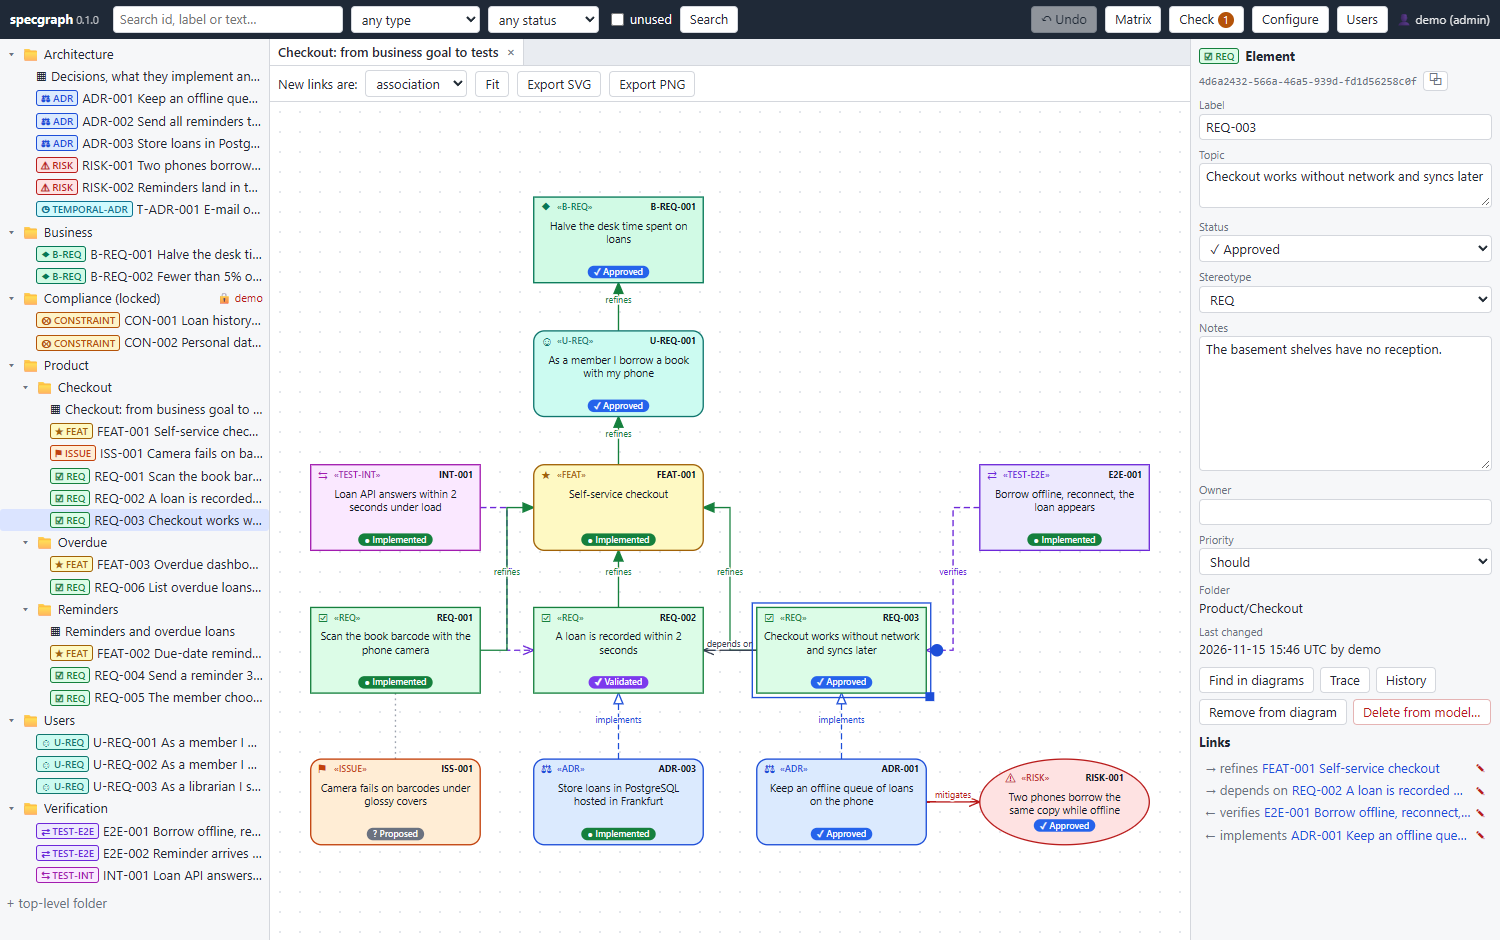
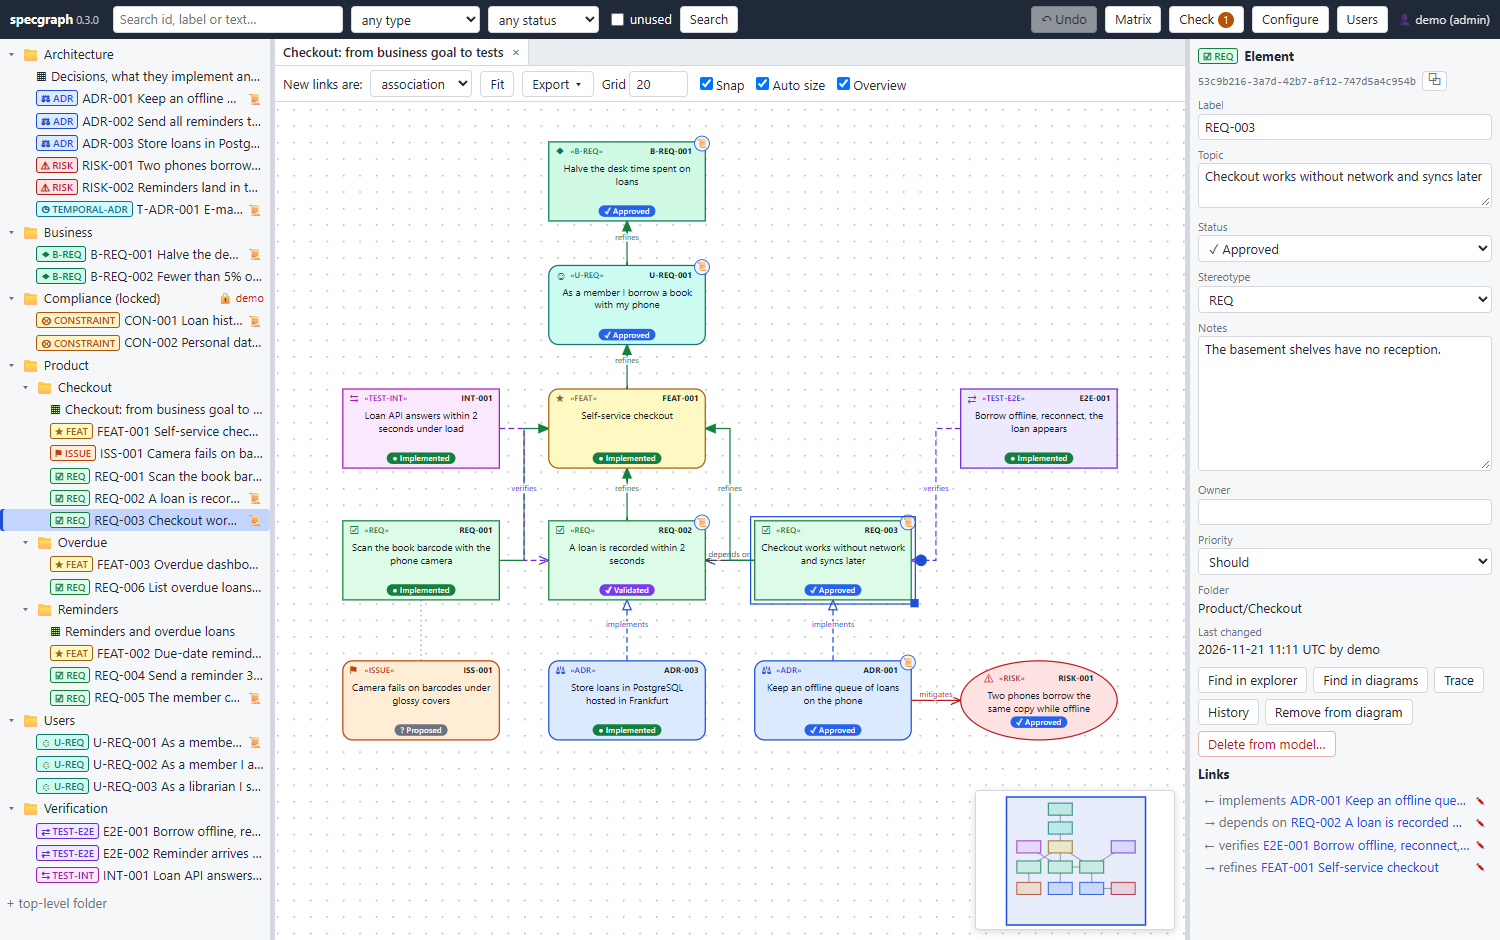
Updating with new features and functionalities. Intermediate build.

Changed region(s): [[0.1533, 0.0309, 1.0, 1.0], [0.552, 0.0617, 0.5827, 0.0926]]

diff --git a/CHANGELOG.md b/CHANGELOG.md
@@ -3,7 +3,7 @@
 Changes of the tool that a user or an agent can notice, newest first. The version is `VERSION` in
 `specgraph/__init__.py` (`python sg.py --version`). Design reasons are in `docs/ADRS.md`.
 
-## 0.3.0 — not released yet
+## 0.3.0 — 2026-11-21
 
 Design: ADR-025, ADR-026, ADR-027 (approved by the owner 2026-11-21); ADR-028, ADR-029, ADR-030.
 
@@ -63,6 +63,23 @@ Design: ADR-025, ADR-026, ADR-027 (approved by the owner 2026-11-21); ADR-028, A
 - PNG export of a very large diagram failed (the image was beyond the browser's limits). It is now scaled down.
 - Double-clicking a diagram in the explorer opens it again. The first click re-drew the tree, so the
   browser never reported the double-click.
+
+### Compatibility
+
+- The format version stays 2; nothing in the file changed shape. Version 0.2 reads a file written by 0.3.
+- Hooks installed by 0.2 keep checking the whole history on every push until `python sg.py install-hooks`
+  is run again.
+- Grid, snap, auto size and overview settings are kept by the browser, not in the model.
+
+### Documentation
+
+- The README screenshots show version 0.3.0. The stored example model (`specmodel.example.json`) is rebuilt.
+
+### Known gaps
+
+- `docs/SECURITY-REVIEW.md` reviews version 0.1.0; its file hashes no longer match. 0.3.0 adds one static file
+  (`favicon.svg`) to the server's fixed list and lets the pre-push hook read the refs git passes on stdin.
+- Elements laid out before 0.3.0 keep their sizes; select them and use *Fit to text* to apply auto size.
 
 ## 0.2.0 — 2026-11-16
 
